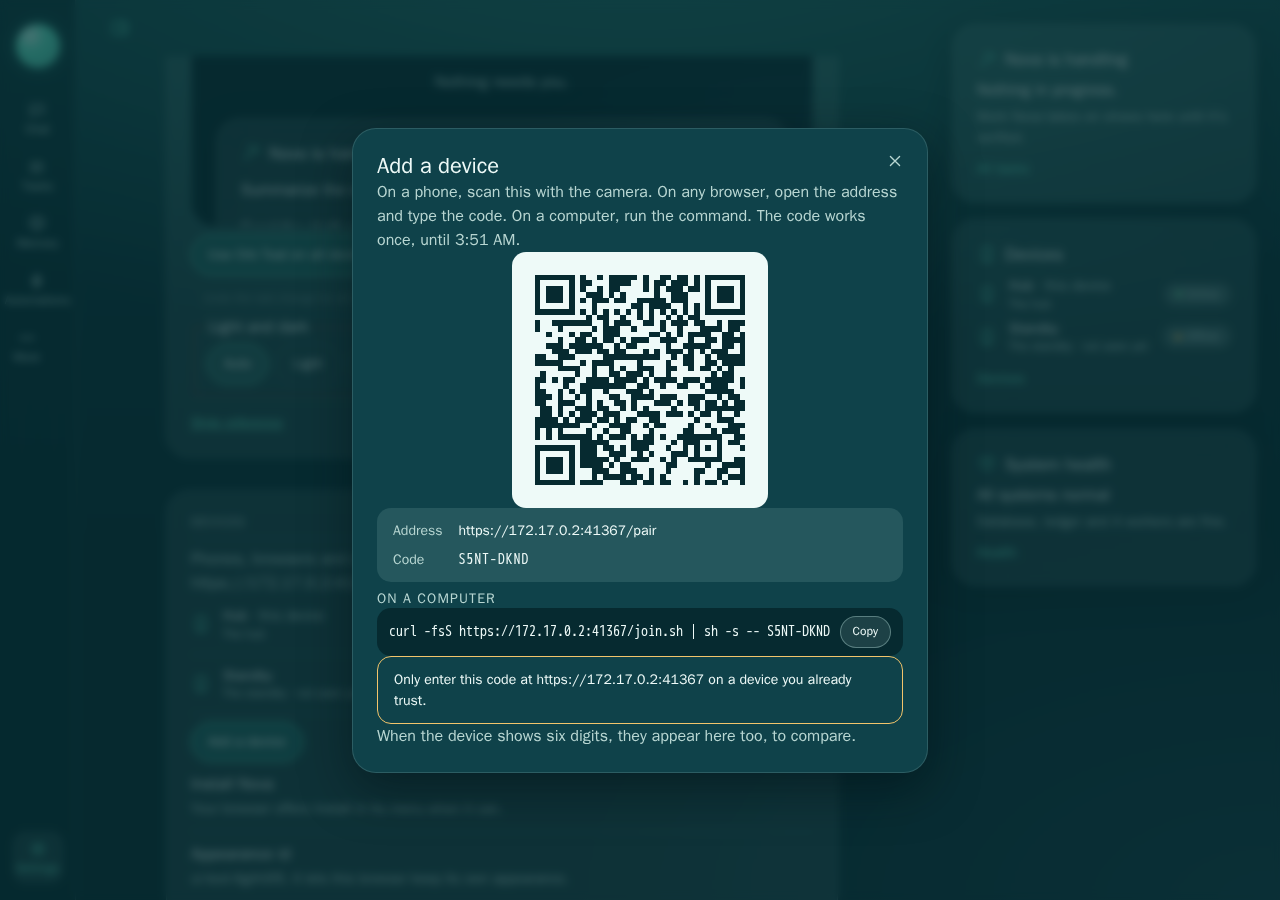
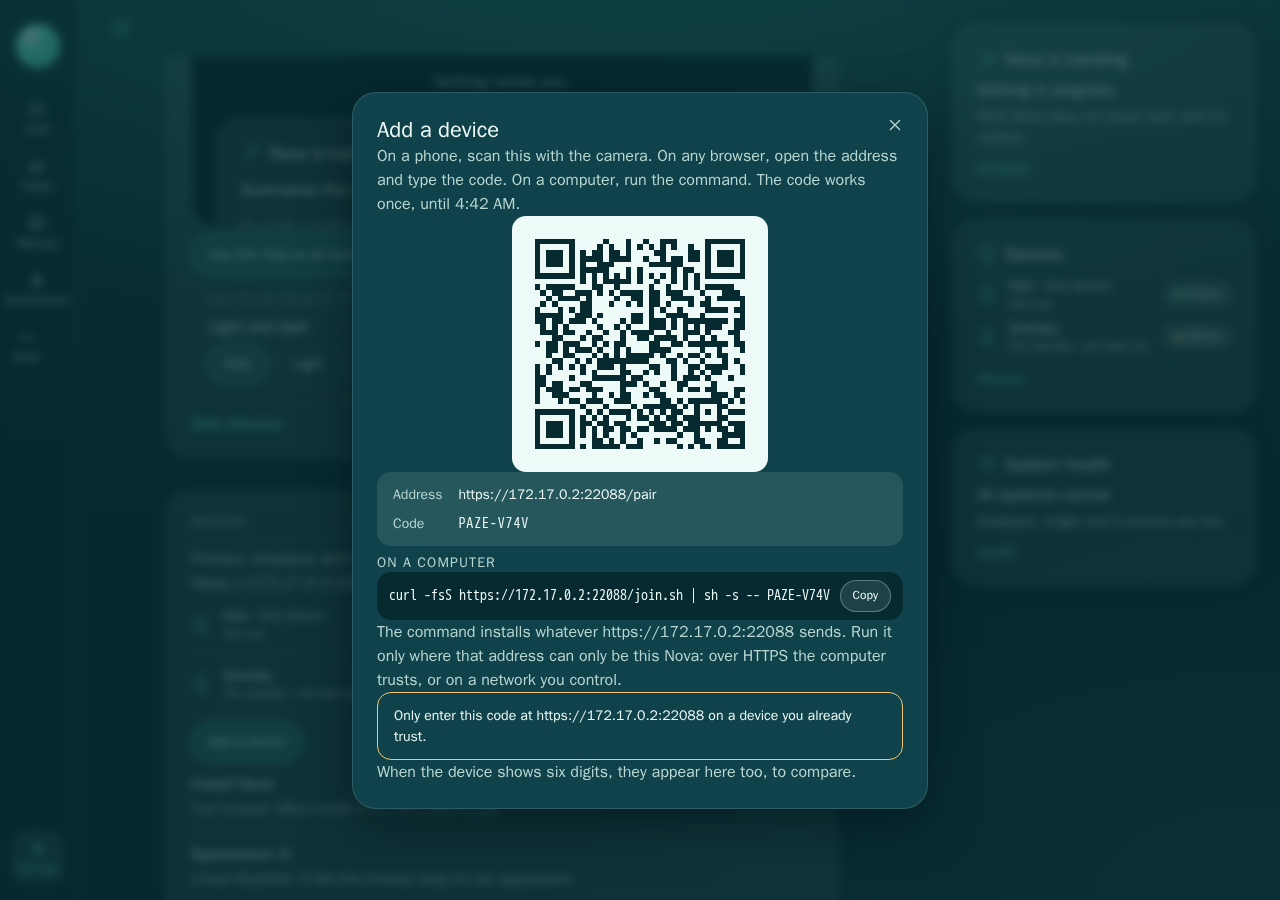
docs(m4): gate evidence regenerated after the review fixes (the sheet's trust-on-first-use line)

Changed region(s): [[0.25, 0.0933, 0.75, 0.9022]]

diff --git a/docs/evidence/m4-gate.md b/docs/evidence/m4-gate.md
@@ -1,11 +1,11 @@
 # M4 gate — evidence
 
-Run 2026-10-30T03:46:24.698Z. Mesh over HTTPS at 172.17.0.2 (not loopback); every process real.
+Run 2026-10-30T04:37:24.901Z. Mesh over HTTPS at 172.17.0.2 (not loopback); every process real.
 
-- Fresh hub: setup done; its console answers only on loopback (http://172.17.0.2:41277 refused); devices use https://172.17.0.2:41367.
+- Fresh hub: setup done; its console answers only on loopback (http://172.17.0.2:39771 refused); devices use https://172.17.0.2:22088.
 - Standby: enrolled by command (digits matched, approved on the hub’s screen with confirm), started from a blank home, syncing.
 - Phone: QR decoded from the hub’s screen, opened over HTTPS on a phone-sized browser, non-extractable keys, same digits on both screens, approved with confirm; signed in and saved a memory.
-- Computer: the exact command from the sheet (`curl -fsS https://172.17.0.2:41367/join.sh | sh -s -- <code>`) installed the boot agent, digits matched, approved with confirm; its runtime heartbeats and it shows Online.
+- Computer: the exact command from the sheet (`curl -fsS https://172.17.0.2:22088/join.sh | sh -s -- <code>`) installed the boot agent, digits matched, approved with confirm; its runtime heartbeats and it shows Online.
 - Data on the hub: a memory (plus the phone’s), a verified workspace task, a conversation, a file in the workspace.
 - Revoked the phone from the hub’s screen (tier 3): its page went back to /pair at once and its next request got 401.
 - Standby caught up (lag 0 rows); the hub was killed with SIGKILL.
